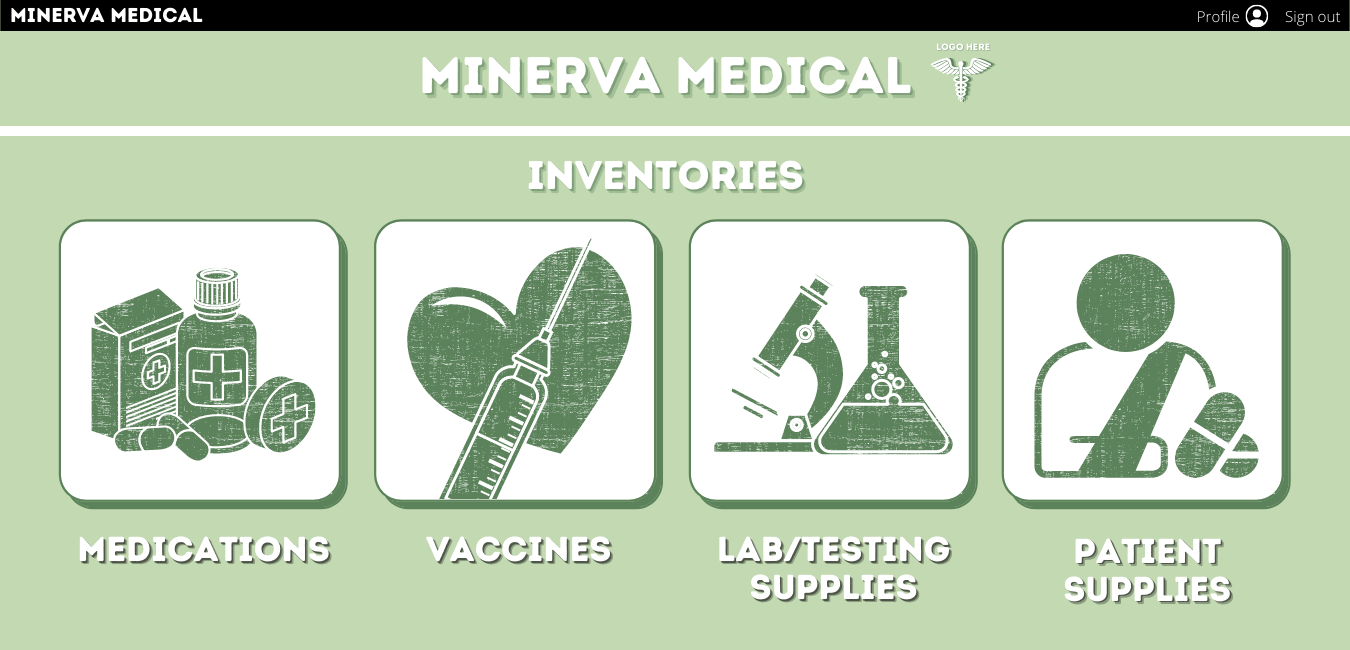
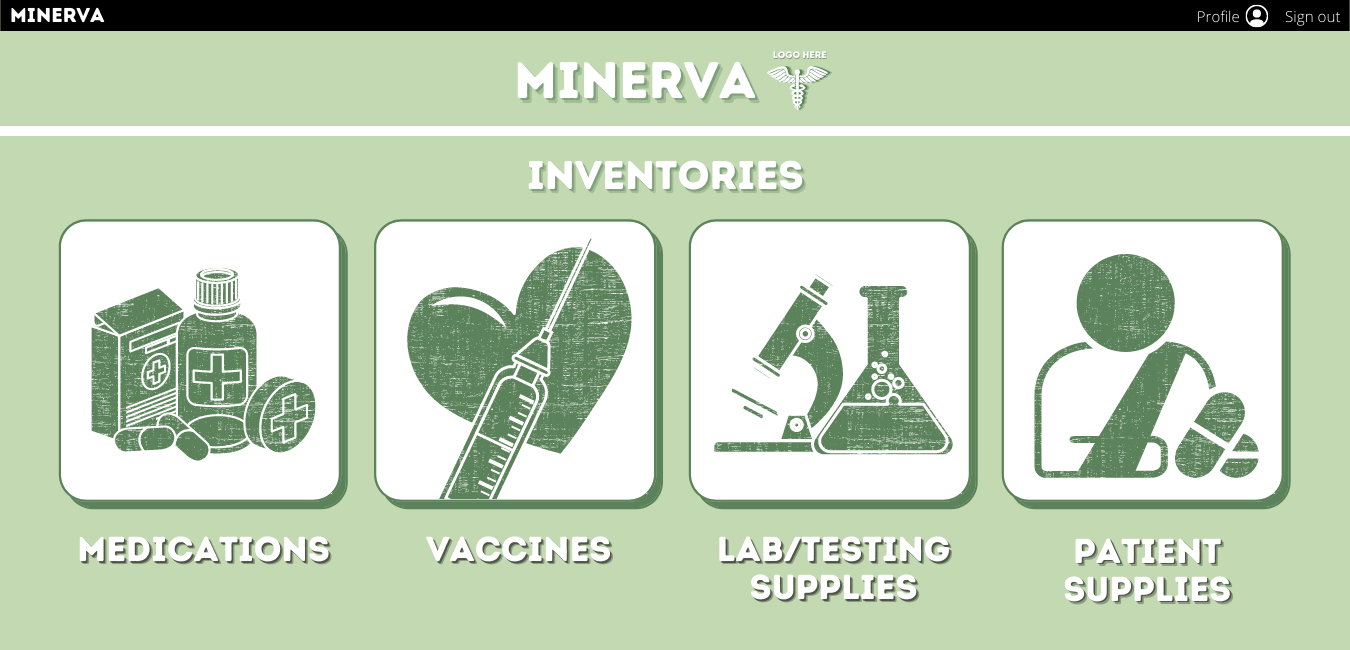
Mockups

Changed region(s): [[0.3111, 0.0615, 0.7467, 0.1538], [0.0622, 0.0, 0.1556, 0.0308]]

diff --git a/index.md b/index.md
@@ -56,7 +56,7 @@ If you wish to install the _**Minerva**_ application locally, you can follow the
 
 First, [install Meteor](https://www.meteor.com/install).
 
-Second, download a copy of [Minerva Medical](https://github.com/minerva-medical/minerva).
+Second, download a copy of [Minerva](https://github.com/minerva-medical/minerva).
 
 Third, open up your terminal/command prompt and cd into the app directory of the Minerva Medical copy you had just downloaded
 and install the necessary libraries by invoking meteor npm install:
